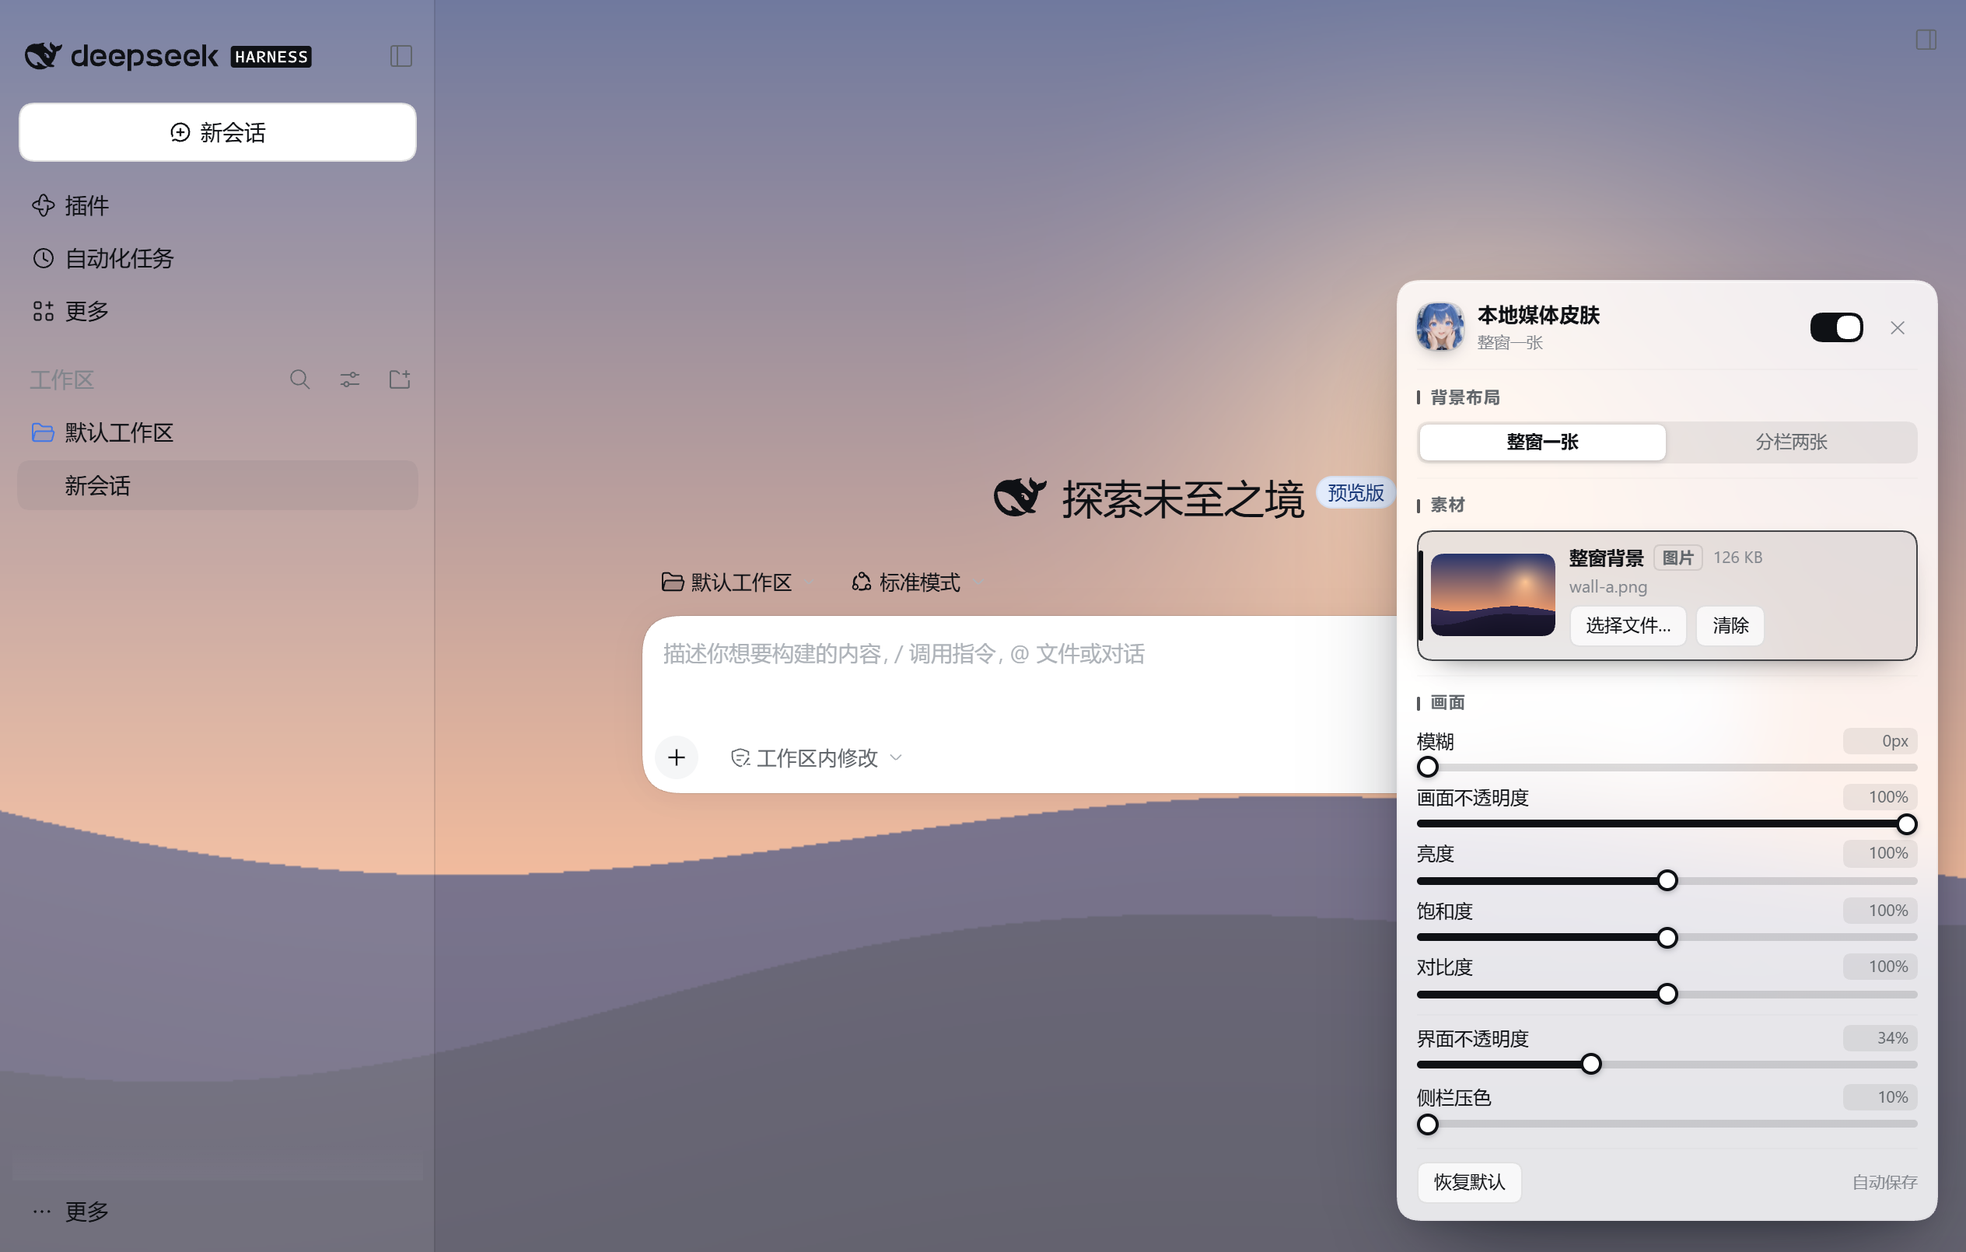
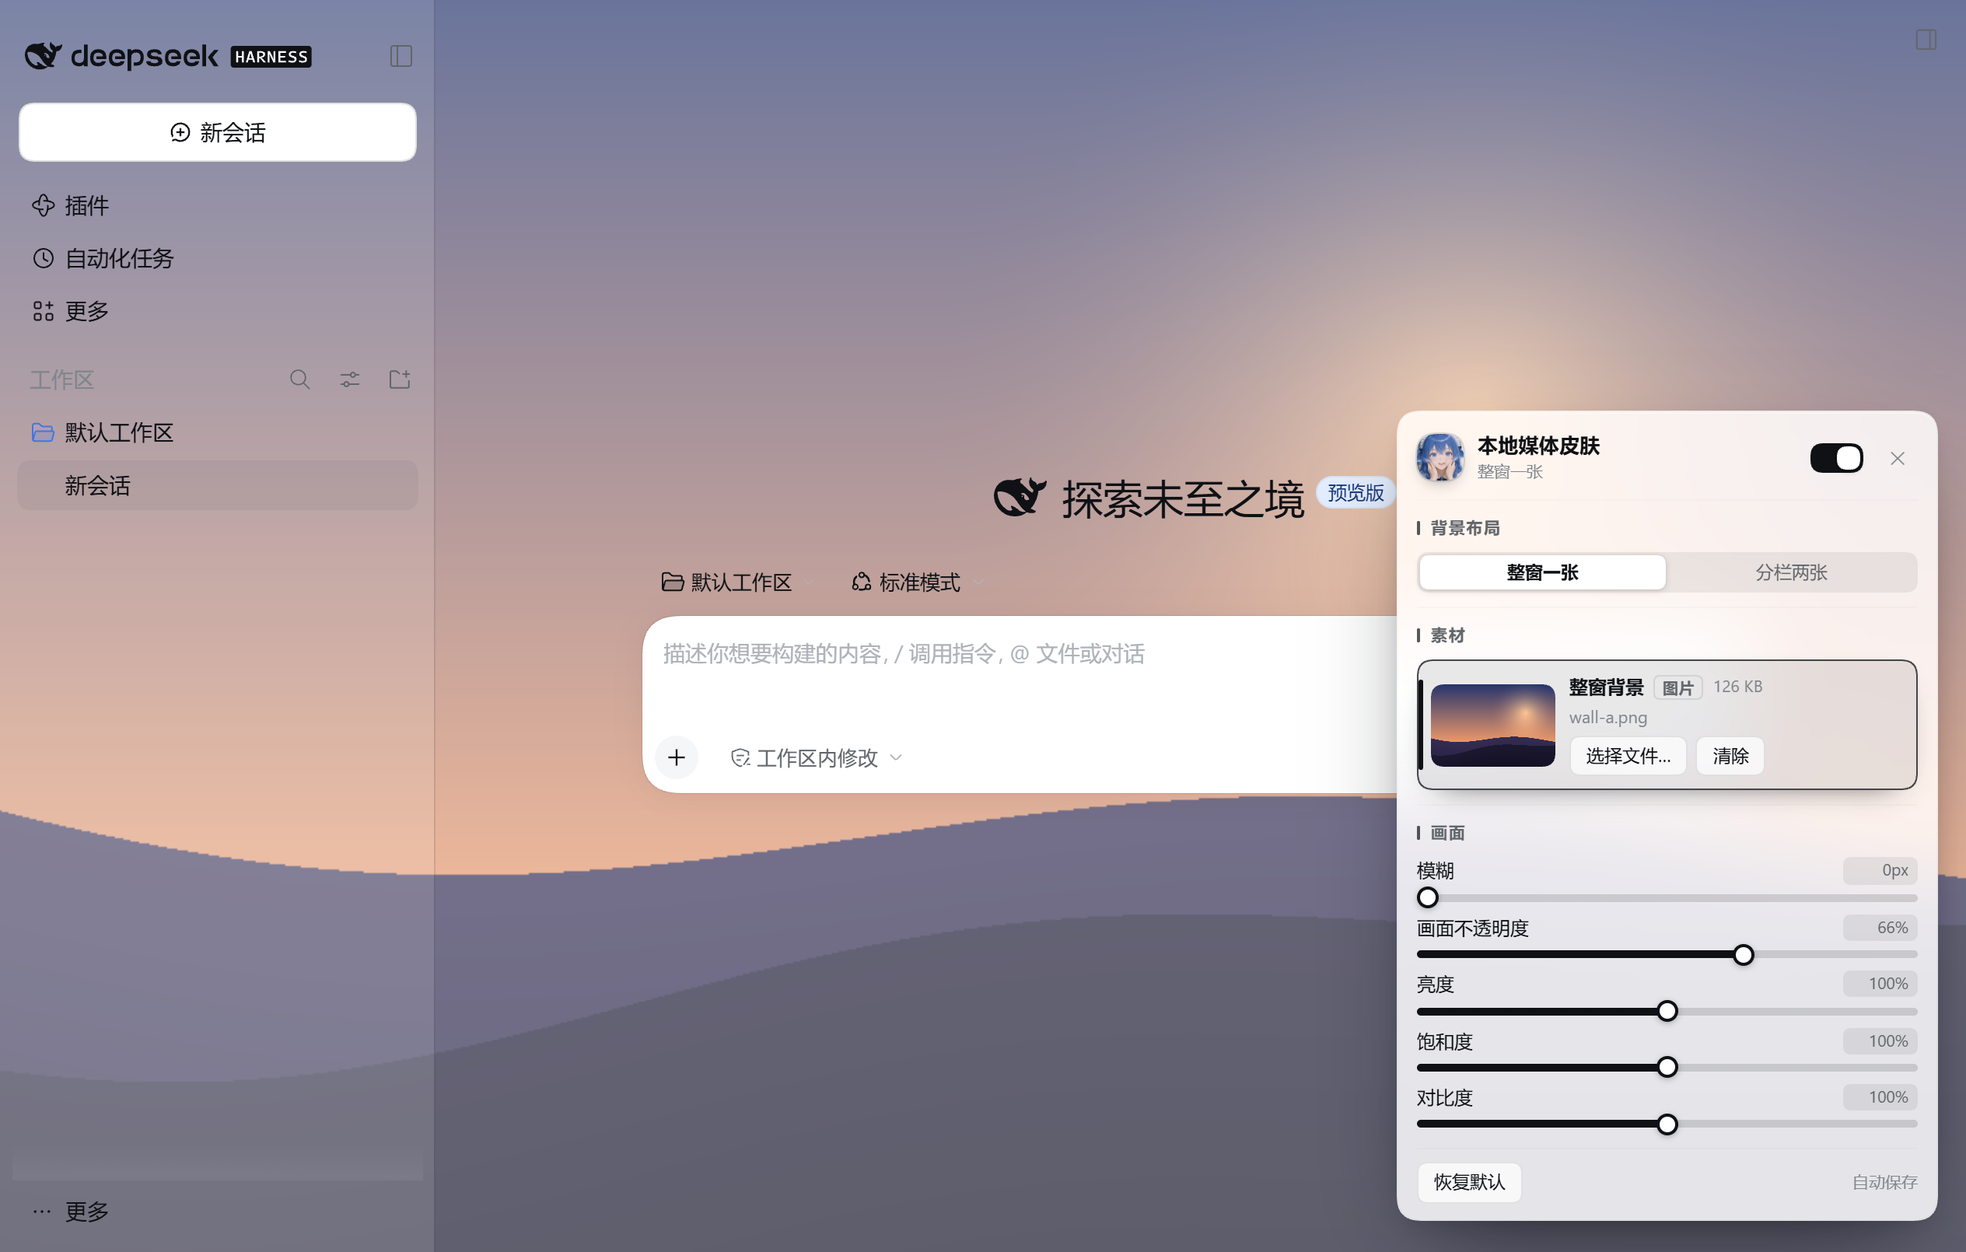
v0.6.0：模糊不再放大背景、压色收成一个旋钮
- 模糊改用素材之上的一层 backdrop-filter（`.dms-frost`），素材元素永远铺满视口：
  以前是把容器反向放大去推掉模糊的软边，cover 跟着容器算，一拖模糊整张图就自己变大。
  实测 1264×805 视口下主区素材在 blur 0 与 blur 40 时 rect 恒为 984×805。
- 删掉「界面不透明度」（全局 scrim）与「侧栏压色」两条：它们跟每层的「画面不透明度」
  干的是同一件事，三个旋钮做一件事只会让人犹豫。侧栏那层固定 6% 薄涂层保留（只保文字可读）。
- 设置版本 4：v3 的两条压色按 mediaOpacity × (1 − surface/100) 折进每层后丢弃，
  观感不变且只折一次（有版本守卫）；实测迁移后 100%/80% → 66%/52.8%。
- 面板随之少两行、去掉了多余分隔线；截图五张按新面板重拍（浅三 + 深二）。
- smoke 覆盖 v4 迁移、幂等性与「老键不再输出」。

Changed region(s): [[0.6875, 0.2174, 1.0, 0.9006]]

diff --git a/client.js b/client.js
@@ -40,13 +40,10 @@ window.__ModuleLoader__.load({
     /** 落到 root 上的 CSS 变量：卸载时要一个一个摘掉，所以集中登记。 */
     const CSS_VARS = [
       '--dms-blur',
-      '--dms-bleed',
       '--dms-opacity',
       '--dms-brightness',
       '--dms-saturate',
       '--dms-contrast',
-      '--dms-scrim',
-      '--dms-sidebar-extra',
       '--dms-sidebar-w',
     ]
 
@@ -95,8 +92,6 @@ window.__ModuleLoader__.load({
       brightness: '亮度',
       saturate: '饱和度',
       contrast: '对比度',
-      surface: '界面不透明度',
-      sidebarExtra: '侧栏压色',
       rate: '播放速度',
       pause: '暂停',
       play: '播放',
@@ -148,8 +143,6 @@ window.__ModuleLoader__.load({
       brightness: 'Brightness',
       saturate: 'Saturation',
       contrast: 'Contrast',
-      surface: 'UI opacity',
-      sidebarExtra: 'Sidebar tone',
       rate: 'Playback speed',
       pause: 'Pause',
       play: 'Play',
@@ -200,32 +193,38 @@ html[data-dms="on"]:has(body[data-ds-dark-theme]) #dms-backdrop{background:#0e11
 #dms-backdrop .dms-layer[data-layer="main"]{left:var(--dms-sidebar-w,264px)}
 #dms-backdrop .dms-layer[data-layer="sidebar"]{right:auto;width:var(--dms-sidebar-w,264px)}
 #dms-backdrop .dms-layer[data-hidden="1"]{display:none}
-#dms-backdrop .dms-holder{position:absolute;inset:calc(-1 * var(--dms-bleed,0px))}
+#dms-backdrop .dms-holder{position:absolute;inset:0}
 #dms-backdrop .dms-media{position:absolute;inset:0;width:100%;height:100%;display:block;
   object-fit:cover;object-position:var(--dms-px,50%) var(--dms-py,50%);
   transform:scale(var(--dms-zoom,1));transform-origin:center center;
   opacity:var(--dms-opacity,1);
-  filter:blur(var(--dms-blur,0px)) brightness(var(--dms-brightness,1)) saturate(var(--dms-saturate,1)) contrast(var(--dms-contrast,1));
+  filter:brightness(var(--dms-brightness,1)) saturate(var(--dms-saturate,1)) contrast(var(--dms-contrast,1));
   transition:opacity 240ms ease}
-/* 底色层：**唯一**的一层压色。它压在素材上、界面下，所以"界面不透明度"就是
-   这一层的 alpha，调到 0 时画面是原始素材，不会再有任何"灰蒙"。 */
-#dms-backdrop .dms-scrim{position:absolute;inset:0;background:rgba(255,255,255,var(--dms-scrim,0.4))}
-html[data-dms="on"]:has(body[data-ds-dark-theme]) #dms-backdrop .dms-scrim{background:rgba(0,0,0,var(--dms-scrim,0.4))}
+/* 模糊：**不改素材的尺寸**。以前是把容器反向放大来推掉模糊的软边，cover 的比例跟着容器变，
+   结果一拖模糊整张图就自己放大。这里换成盖在素材上的一层 backdrop-filter：它采样的是
+   "已经画好的背景"（Chromium 对采样做边缘 clamp），素材元素保持铺满视口，取景一格都不动。 */
+#dms-backdrop .dms-frost{position:absolute;inset:0;pointer-events:none;
+  -webkit-backdrop-filter:blur(var(--dms-blur,0px));
+  backdrop-filter:blur(var(--dms-blur,0px))}
+#dms-backdrop .dms-frost[data-on="0"]{display:none}
 
 /* ── 画布透明化：不透明的话素材永远被盖住。
       这里刻意写成 transparent 而不是"半透明白色"：同一个 token 会被多个嵌套容器各画一遍，
-      每叠一层就等于又加了一层白膜 —— 那是"调到底还是灰"的根。压色统一交给上面那层 scrim。
+      每叠一层就等于又加了一层白膜 —— 那是"调到底还是灰"的根。
+      素材的淡出统一交给每层的"画面不透明度"。
       只动"画布 + 侧栏"，弹层/卡片/设置页（bg-layer-*）保持原生不透明。 ── */
 html[data-dms="on"],html[data-dms="on"] body{background-color:transparent !important}
 html[data-dms="on"]:has(body[data-ds-dark-theme]){background-color:#0e1116 !important}
 html[data-dms="on"]:not(:has(body[data-ds-dark-theme])){background-color:#eef1f5 !important}
+/* 侧栏那层薄涂层是固定的：它只负责让导航文字在花哨壁纸上还读得出来，不做成可调项
+   （可调的话就又多一个跟"画面不透明度"重合的旋钮）。 */
 html[data-dms="on"] body{
   --dsw-alias-bg-base:transparent !important;
-  --dsw-specific-sidebar-fill:rgba(255,255,255,var(--dms-sidebar-extra,.05)) !important;
+  --dsw-specific-sidebar-fill:rgba(255,255,255,.06) !important;
 }
 html[data-dms="on"] body[data-ds-dark-theme]{
   --dsw-alias-bg-base:transparent !important;
-  --dsw-specific-sidebar-fill:rgba(0,0,0,var(--dms-sidebar-extra,.05)) !important;
+  --dsw-specific-sidebar-fill:rgba(0,0,0,.06) !important;
 }
 
 /* ── 深色壳补偿 ──
@@ -390,8 +389,6 @@ html[data-dms="on"]:has(body[data-ds-dark-theme]) .dms-thumb{box-shadow:inset 0 
 .dms-range::-moz-range-thumb{width:12px;height:12px;border-radius:50%;background:var(--dsw-alias-bg-layer-1,#fff);
   border:2px solid var(--dsw-alias-brand-primary,#4d6bfe)}
 .dms-range:disabled{opacity:.45;cursor:default}
-.dms-divider{height:1px;margin:0;
-  background:color-mix(in srgb,var(--dsw-alias-border-l1,#0f1a32) 46%,transparent)}
 
 /* ── 复制调色：虚线胶囊，点完短暂变成实心"已同步" ── */
 .dms-sync{display:flex;align-items:center;justify-content:center;gap:6px;width:100%;box-sizing:border-box;
@@ -537,7 +534,6 @@ html[data-dms="on"]:has(body[data-ds-dark-theme]) .dms-thumb{box-shadow:inset 0 
     function createEngine() {
       const root = document.documentElement
       let layer = null
-      let scrim = null
       const nodes = { full: null, main: null, sidebar: null }
       const keyOf = { full: '', main: '', sidebar: '' }
 
@@ -558,12 +554,14 @@ html[data-dms="on"]:has(body[data-ds-dark-theme]) .dms-thumb{box-shadow:inset 0 
           const holder = document.createElement('div')
           holder.className = 'dms-holder'
           el.appendChild(holder)
+          // 模糊层：盖在素材上、只做 backdrop-filter，素材本身的尺寸永远不动。
+          const frost = document.createElement('div')
+          frost.className = 'dms-frost'
+          frost.dataset.on = '0'
+          el.appendChild(frost)
           layer.appendChild(el)
-          nodes[key] = { layer: el, holder, media: null }
+          nodes[key] = { layer: el, holder, frost, media: null }
         }
-        scrim = document.createElement('div')
-        scrim.className = 'dms-scrim'
-        layer.appendChild(scrim)
         document.body.insertBefore(layer, document.body.firstChild)
         window.addEventListener('resize', syncSidebarWidth)
       }
@@ -617,7 +615,6 @@ html[data-dms="on"]:has(body[data-ds-dark-theme]) .dms-thumb{box-shadow:inset 0 
         for (const key of LAYERS) dropMedia(key)
         if (layer !== null && layer.parentNode !== null) layer.parentNode.removeChild(layer)
         layer = null
-        scrim = null
         for (const key of LAYERS) {
           nodes[key] = null
           keyOf[key] = ''
@@ -649,12 +646,6 @@ html[data-dms="on"]:has(body[data-ds-dark-theme]) .dms-thumb{box-shadow:inset 0 
 
         const percent = (value) => (Math.max(0, Math.min(200, value)) / 100).toFixed(3)
         root.setAttribute('data-dms', 'on')
-        // 界面不透明度 = 压在素材上的那一层底色（亮主题白、暗主题黑）的 alpha。
-        root.style.setProperty('--dms-scrim', Math.max(0, Math.min(1, settings.surface / 100)).toFixed(3))
-        root.style.setProperty(
-          '--dms-sidebar-extra',
-          (0.03 + Math.max(0, Math.min(1, (settings.sidebar ?? 50) / 100)) * 0.05).toFixed(3),
-        )
 
         const videoSettings = settings.video || {}
         for (const key of LAYERS) {
@@ -682,8 +673,8 @@ html[data-dms="on"]:has(body[data-ds-dark-theme]) .dms-thumb{box-shadow:inset 0 
           const look = settings.layers && settings.layers[key] && settings.layers[key].look ? settings.layers[key].look : {}
           const blur = typeof look.blur === 'number' ? look.blur : 0
           slot.layer.style.setProperty('--dms-blur', `${blur}px`)
-          // 模糊会把边缘吃掉一圈，所以容器反向放大一点把边缘推到视口外。
-          slot.layer.style.setProperty('--dms-bleed', `${Math.ceil(blur * 2.2)}px`)
+          // 模糊交给 frost 层的 backdrop-filter；0 就整层撤掉，不留无用的合成层。
+          if (slot.frost) slot.frost.dataset.on = blur > 0 ? '1' : '0'
           slot.layer.style.setProperty('--dms-opacity', percent(typeof look.mediaOpacity === 'number' ? look.mediaOpacity : 100))
           slot.layer.style.setProperty('--dms-brightness', percent(typeof look.brightness === 'number' ? look.brightness : 100))
           slot.layer.style.setProperty('--dms-saturate', percent(typeof look.saturate === 'number' ? look.saturate : 100))
@@ -1292,8 +1283,6 @@ html[data-dms="on"]:has(body[data-ds-dark-theme]) .dms-thumb{box-shadow:inset 0 
               body: JSON.stringify({
                 enabled: true,
                 mode: 'full',
-                surface: 40,
-                sidebar: 48,
                 video: { rate: 1, paused: false },
                 layers: {
                   full: { crop: { x: 0.5, y: 0.5, zoom: 1 }, look: { ...DEFAULT_LOOK } },
@@ -1418,33 +1407,6 @@ html[data-dms="on"]:has(body[data-ds-dark-theme]) .dms-thumb{box-shadow:inset 0 
         })
       }
 
-      /** 全局压色滑块（界面不透明度 / 侧栏压色）。 */
-      const globalSlider = (key, labelKey, min, max) => {
-        const current = settings ? settings[key] : min
-        return h(
-          'div',
-          { className: 'dms-field', key },
-          h(
-            'div',
-            { className: 'dms-row dms-row-between' },
-            h('span', { className: 'dms-label' }, t(labelKey)),
-            h('span', { className: 'dms-value' }, `${current}${t('percent')}`),
-          ),
-          h('input', {
-            className: 'dms-range',
-            type: 'range',
-            min,
-            max,
-            step: 1,
-            value: current,
-            style: { '--dms-fill': fillOf(current, min, max) },
-            disabled: settings === null,
-            'aria-label': t(labelKey),
-            onChange: (event) => patch({ [key]: Number(event.target.value) }),
-          }),
-        )
-      }
-
       const mediaOfCropping = cropping ? cropping.info : null
       const sidebarWidth = typeof window !== 'undefined' ? measureSidebarWidth() : DEFAULT_SIDEBAR_WIDTH
 
@@ -1460,7 +1422,7 @@ html[data-dms="on"]:has(body[data-ds-dark-theme]) .dms-thumb{box-shadow:inset 0 
        * 把当前这层的五个画面参数整组复制到另一层。
        *
        * 分栏常用的就是"两边调成一个调子"，一张张拖十条滑块很烦；
-       * 复制只是把 look 搬过去，裁切、素材、压色都不动。
+       * 复制只是把 look 搬过去，裁切与素材都不动。
        */
       const copyLookTo = (targetKey) => {
         if (targetKey === null) return
@@ -1581,7 +1543,7 @@ html[data-dms="on"]:has(body[data-ds-dark-theme]) .dms-thumb{box-shadow:inset 0 
                       : null,
                   ),
 
-              // ── 画面（每个图层一套；底部两条是全局压色）──
+              // ── 画面（每个图层一套，滑块永远只有一组）──
               settings === null
                 ? null
                 : h(
@@ -1645,9 +1607,6 @@ html[data-dms="on"]:has(body[data-ds-dark-theme]) .dms-thumb{box-shadow:inset 0 
                           ),
                           syncDone ? t('synced') : `${t('syncLook')} ${t(layerLabelOf(otherLayerKey))}`,
                         ),
-                    h('div', { className: 'dms-divider' }),
-                    globalSlider('surface', 'surface', 0, 100),
-                    globalSlider('sidebar', 'sidebarExtra', 10, 100),
                   ),
 
               // ── 视频 ──

diff --git a/lib/defaults.js b/lib/defaults.js
@@ -7,12 +7,12 @@
  * 数值一律走 `clamp()`：界面滑块坏了、用户手改了 JSON、或者别的插件写了个奇怪的值，
  * 都只会在区间内被夹住，不会让背景层变成 NaN 或 100000px 的模糊。
  *
- * ── v3：每层一套画面参数 ──
- * v2 把整窗 / 内容区 / 左侧栏拆开了，但"画面"那组滑块还是全局共用的 ——
- * 两张图性格不一样（侧栏那张要更暗、主图要更亮）时就没法分别调。
- * 现在 `blur / mediaOpacity / brightness / saturate / contrast` 收进每个图层的 `look`，
- * 面板里用"当前调节对象"切换，滑块永远只有一组，不臃肿。
- * 仍然全局的只剩压色：`surface`（界面不透明度）与 `sidebar`（侧栏压色）。
+ * ── v4：只留一个"淡"的旋钮 ──
+ * v3 起每层有自己的 `look`，但压色那两条（`surface` 界面不透明度 / `sidebar` 侧栏压色）
+ * 还是全局的，跟每层的 `mediaOpacity` 体感几乎一样 —— 三个滑块做一件事，用户只会困惑。
+ * v4 把它们收成一个：**每层的 `mediaOpacity`**。按层的淡出比全局压色更细，
+ * 而且分栏时正好能单独把某一层压下去（原本"侧栏压色"想干的事）。
+ * 迁移时把 `mediaOpacity × (1 − surface/100)` 折进每一层，观感不变，然后丢掉 v3 的两个老键。
  */
 
 /** 背景模式：整窗一张图，还是主区 + 侧栏分区。 */
@@ -51,7 +51,7 @@ function emptyLayer() {
 
 /** 设置文件的默认值。 */
 export const DEFAULTS = Object.freeze({
-  version: 3,
+  version: 4,
   enabled: true,
   mode: 'full',
   layers: {
@@ -59,8 +59,6 @@ export const DEFAULTS = Object.freeze({
     main: emptyLayer(),
     sidebar: emptyLayer(),
   },
-  surface: 40,
-  sidebar: 48,
   video: { rate: 1, paused: false },
   panel: { open: false },
 })
@@ -72,8 +70,6 @@ export const RANGES = Object.freeze({
   brightness: [40, 160],
   saturate: [0, 200],
   contrast: [50, 150],
-  surface: [0, 100],
-  sidebar: [10, 100],
 })
 
 /** 裁切参数区间：x/y 是 0–1 的取景中心，zoom 是相对 cover 的放大倍数。 */
@@ -121,6 +117,13 @@ function text(value, maxLength) {
 
 function bool(value, fallback) {
   return typeof value === 'boolean' ? value : fallback
+}
+
+/** 读旧版的 0–100 百分比键（v3 的 `surface`），没有或坏掉时返回 null。 */
+function legacyPercent(value) {
+  const number = typeof value === 'number' ? value : Number.parseFloat(value)
+  if (!Number.isFinite(number)) return null
+  return Math.min(100, Math.max(0, Math.round(number * 10) / 10))
 }
 
 /**
@@ -260,13 +263,25 @@ export function sanitize(input) {
 
   const rate = typeof video.rate === 'number' && RATES.includes(video.rate) ? video.rate : 1
 
+  // v3 → v4：把全局压色折进每层的画面不透明度（素材权重 × 剩余透明度 = 原来的叠加结果），
+  // 观感基本不变；之后 `surface` / `sidebar` 两个键就彻底丢掉。
+  // 只在文件还是老版本时折一次 —— 否则每次 sanitize 都会再压一层。
+  const version = typeof raw.version === 'number' ? raw.version : 0
+  if (version < DEFAULTS.version) {
+    const surface = legacyPercent(raw.surface)
+    const fold = surface === null ? 1 : (100 - surface) / 100
+    if (fold !== 1) {
+      for (const key of LAYER_KEYS) {
+        layers[key].look.mediaOpacity = clamp(layers[key].look.mediaOpacity * fold, 'mediaOpacity')
+      }
+    }
+  }
+
   return {
-    version: 3,
+    version: DEFAULTS.version,
     enabled: bool(raw.enabled, DEFAULTS.enabled),
     mode: pick(raw.mode, MODES, DEFAULTS.mode),
     layers,
-    surface: clamp(raw.surface, 'surface'),
-    sidebar: clamp(raw.sidebar, 'sidebar'),
     video: { rate, paused: bool(video.paused, false) },
     panel: { open: bool(panel.open, false) },
   }

diff --git a/docs/DETAIL.md b/docs/DETAIL.md
@@ -5,7 +5,9 @@ has its own cropper — drag to frame it, scroll to zoom, and the preview frame 
 No more fixed fit / position / zoom presets. Each layer also keeps its own blur, media opacity,
 brightness, saturation and contrast: click a media card to switch which layer the sliders edit, so
 there is still only one set of sliders, and one "Copy look to ..." button pushes the whole set to the
-other layer in split mode. UI wash (UI opacity, sidebar tone) is shared. Media is uploaded only —
+other layer in split mode. There is a single fade control — each layer's media opacity — and blur runs
+as a `backdrop-filter` overlay while the media element keeps filling the viewport, so dragging blur
+never enlarges the picture. Media is uploaded only —
 no local-path input cluttering the panel. The panel is frosted glass, and the corner button is the
 plugin's own whale-chef avatar. Both light and dark shells follow the host's colour tokens, so
 switching theme needs no re-setup; the panel, sliders, switch and cropper are contrast-checked in dark.

diff --git a/docs/DETAIL.zh.md b/docs/DETAIL.zh.md
@@ -4,6 +4,7 @@
 预览框就是最终效果 —— 不再有固定的填充方式、取景位置与缩放档位。
 每张图还有自己的一套模糊、画面不透明度、亮度、饱和度与对比度：点素材卡切换调节对象，
 滑块永远只有一组；分栏时一个「复制调色到 …」按钮就能把整组参数推给另一层。
-界面压色（界面不透明度、侧栏压色）两层共用。素材只走「选择文件…」上传，面板不塞本地路径输入。
+界面色淡出只剩一个旋钮：每层的「画面不透明度」，分栏时正好单独压某一层。模糊走的是素材之上的一层
+`backdrop-filter`，素材元素永远铺满视口，拖模糊不会把画面自己放大。素材只走「选择文件…」上传，面板不塞本地路径输入。
 面板是磨砂玻璃质感，右下角圆钮是插件自己的蓝鲸厨娘头像。亮色与深色主题都跟随 DSH 的配色
 token，切主题不用重设；深色下面板、滑轨、开关与裁切器都按深色重新校过对比度。
